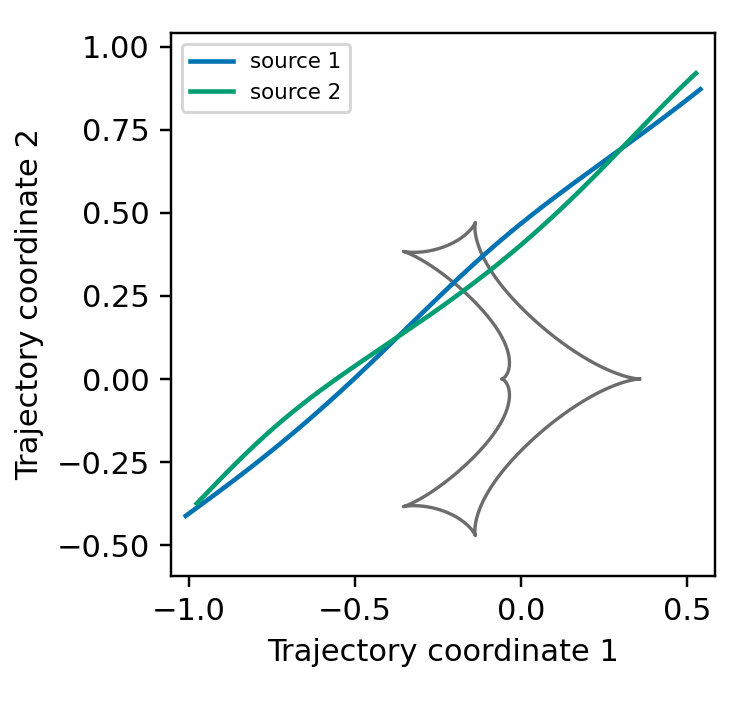
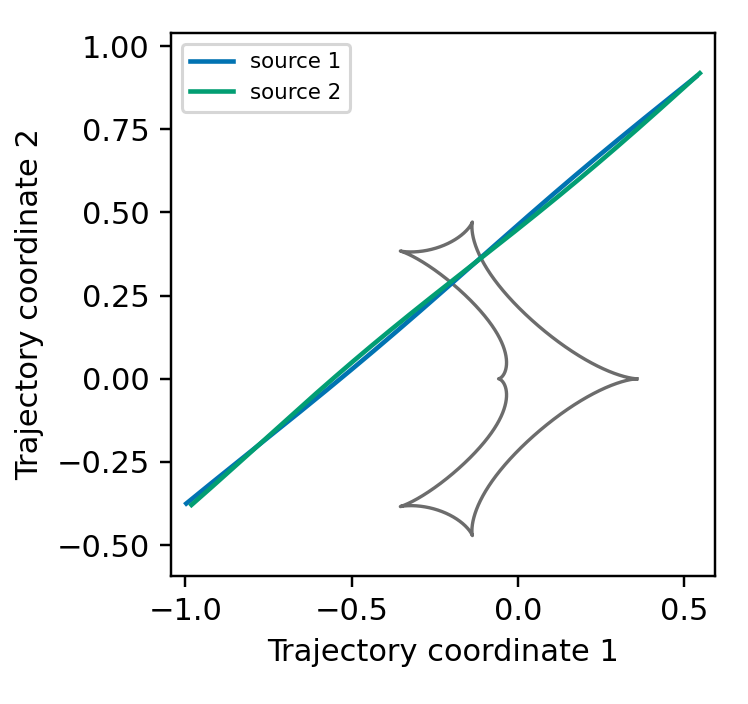
docs: align direct and offset xallarap examples

diff --git a/example/docs-python/generate_figures.py b/example/docs-python/generate_figures.py
@@ -472,8 +472,8 @@ def binary_source_xallarap_elements_lightcurve():
 
 def binary_source_xallarap_offset_lightcurve():
     params = dict(
-        s=0.9, q=0.1, alpha=0.7, tE=30.0, t0=7500.0, u0=0.35,
-        t0_2=7501.2, u0_2=0.32, rho1=0.004, rho2=0.002,
+        s=0.9, q=0.1, alpha=0.7, tE=30.0, t0=7499.82, u0=0.347,
+        t0_2=7500.257142857, u0_2=0.354285714, rho1=0.004, rho2=0.002,
         flux_ratio=0.4, source_mass_ratio=0.7,
         w1=0.001, w2=0.12, w3=0.02,
     )

diff --git a/docs/python/BinarySourceXallarap.md b/docs/python/BinarySourceXallarap.md
@@ -91,38 +91,43 @@ plt.show()
 
 `source_orbit_coordinates="trajectory_offset"` accepts the two tangent tracks
 at `t_ref`: `t0`, `u0`, `t0_2`, and `u0_2`. Use the same binary-source inputs
-above, replacing the xallarap state with:
+above. The values below represent the same CoM state and source-1 offset as
+the direct example at `t_ref`.
 
 ```python
-parameters.update({
-    "t0_2": 7501.2, "u0_2": 0.32,
+offset_parameters = dict(parameters)
+offset_parameters.pop("xi_1")
+offset_parameters.pop("xi_2")
+offset_parameters.update({
+    "t0": 7499.82, "u0": 0.347,
+    "t0_2": 7500.257142857, "u0_2": 0.354285714,
 })
 binary_curve = lcbinint.LightCurve(
     source="binary", xallarap="circular_velocity",
     source_orbit_coordinates="trajectory_offset", t_ref=7500.0,
 )
-binary_magnification = binary_curve(times, parameters)
+binary_magnification = binary_curve(times, offset_parameters)
 ```
 
 The component curves use the CoM-converted states. The full copy/paste version
 is shown by the calculation that generated the plot:
 
 ```python
-q_s = parameters["source_mass_ratio"]
-relative_tau = (parameters["t0"] - parameters["t0_2"]) / parameters["tE"]
-relative_beta = parameters["u0_2"] - parameters["u0"]
+q_s = offset_parameters["source_mass_ratio"]
+relative_tau = (offset_parameters["t0"] - offset_parameters["t0_2"]) / offset_parameters["tE"]
+relative_beta = offset_parameters["u0_2"] - offset_parameters["u0"]
 source1_params = {
-    "s": parameters["s"], "q": parameters["q"], "alpha": parameters["alpha"],
-    "tE": parameters["tE"],
-    "t0": (parameters["t0"] + q_s * parameters["t0_2"]) / (1.0 + q_s),
-    "u0": (parameters["u0"] + q_s * parameters["u0_2"]) / (1.0 + q_s),
-    "rho": parameters["rho1"],
+    "s": offset_parameters["s"], "q": offset_parameters["q"], "alpha": offset_parameters["alpha"],
+    "tE": offset_parameters["tE"],
+    "t0": (offset_parameters["t0"] + q_s * offset_parameters["t0_2"]) / (1.0 + q_s),
+    "u0": (offset_parameters["u0"] + q_s * offset_parameters["u0_2"]) / (1.0 + q_s),
+    "rho": offset_parameters["rho1"],
     "xi_1": -q_s * relative_tau / (1.0 + q_s),
     "xi_2": -q_s * relative_beta / (1.0 + q_s),
-    "w1": parameters["w1"], "w2": parameters["w2"], "w3": parameters["w3"],
+    "w1": offset_parameters["w1"], "w2": offset_parameters["w2"], "w3": offset_parameters["w3"],
 }
 source2_params = dict(
-    source1_params, rho=parameters["rho2"],
+    source1_params, rho=offset_parameters["rho2"],
     xi_1=-source1_params["xi_1"] / q_s,
     xi_2=-source1_params["xi_2"] / q_s,
 )
